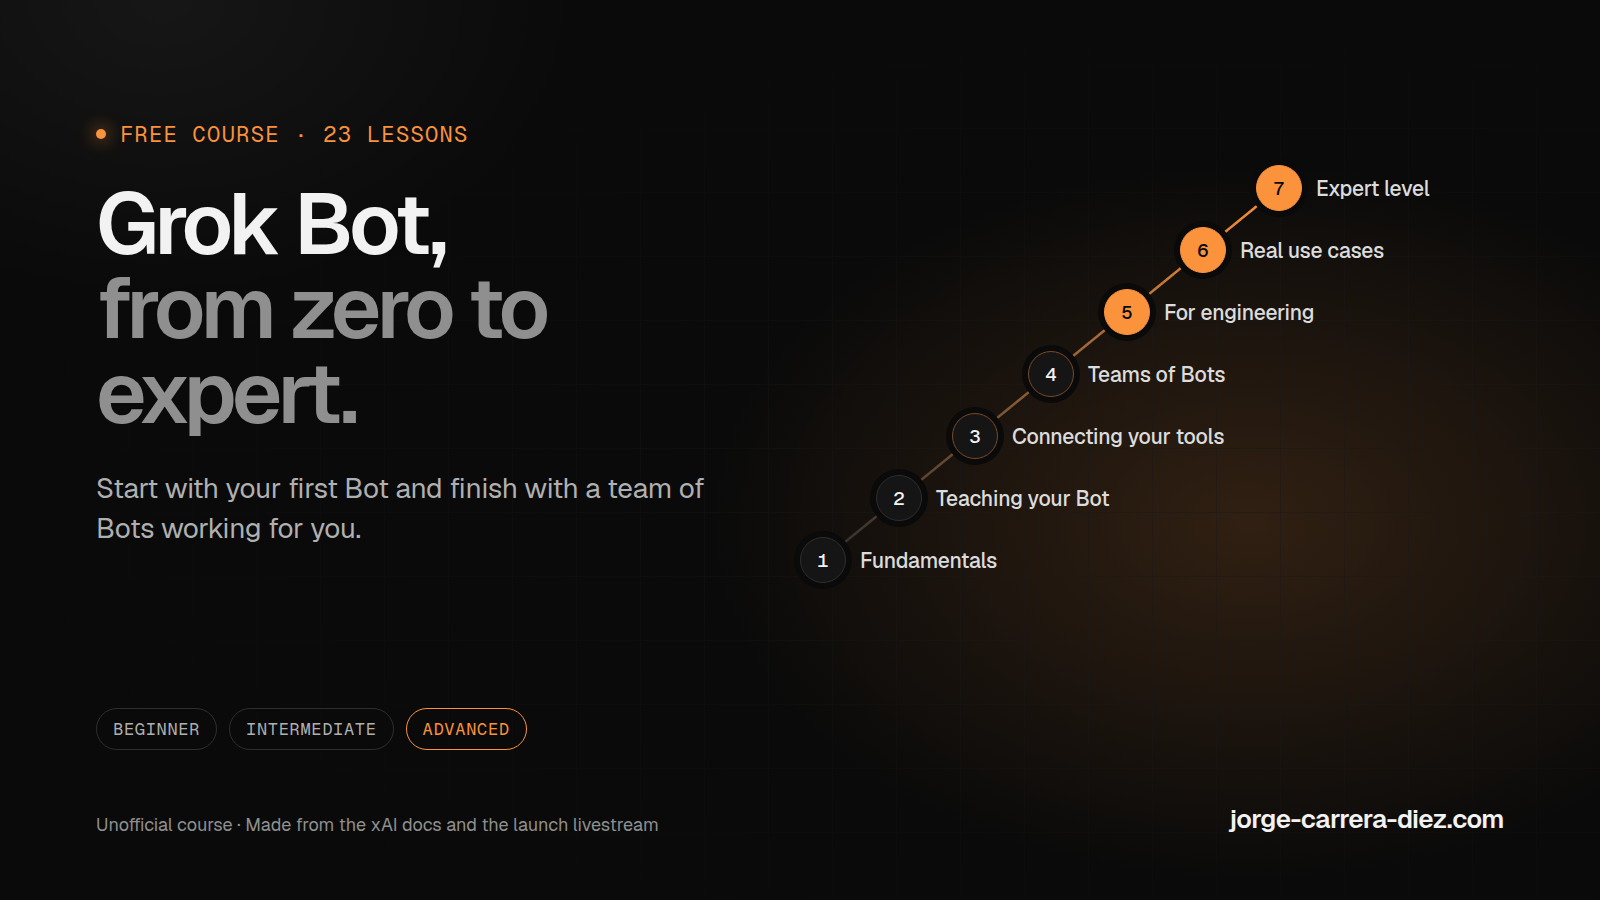
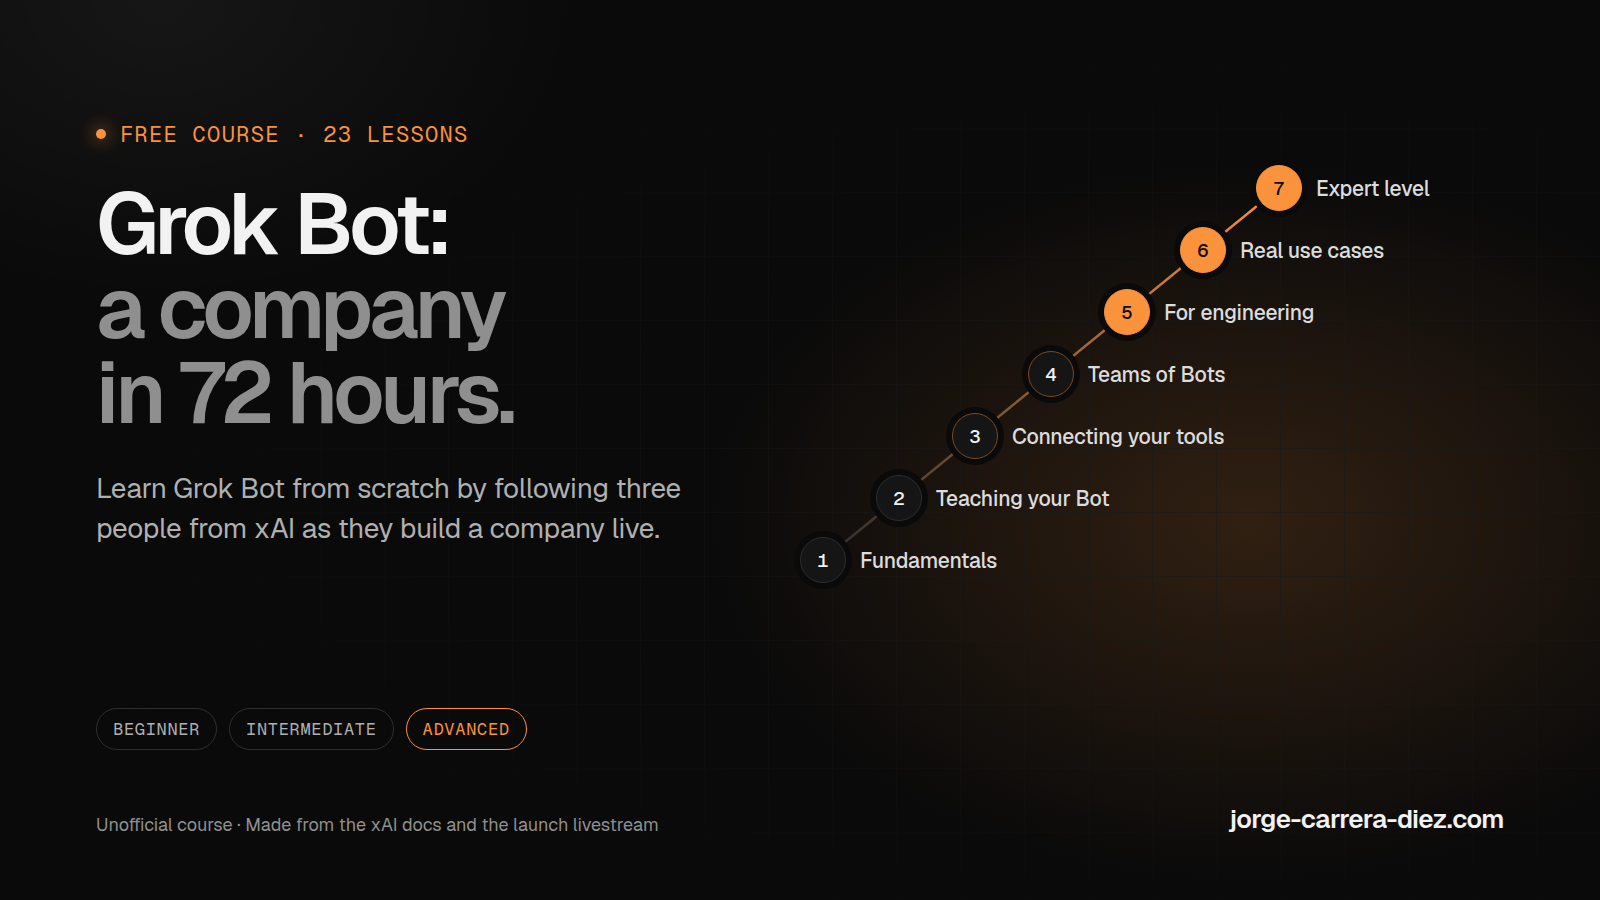
feat(cursos): el curso pasa a llamarse Grok Bot: una empresa en 72 horas
Título que cuenta la historia, subtítulo con el para quién y el de qué va,
título SEO con «Curso de Grok Bot» y portada nueva.

Changed region(s): [[0.0625, 0.3111, 0.3438, 0.4978], [0.0625, 0.5289, 0.4375, 0.6222], [0.25, 0.2178, 0.2812, 0.2489]]

diff --git a/src/content/courses/grok-bot/meta.ts b/src/content/courses/grok-bot/meta.ts
@@ -100,7 +100,9 @@ export const grokBotCourse = {
   ] as CourseLessonRef[],
   copy: {
     es: {
-      title: "Grok Bot, de cero a experto",
+      title: "Grok Bot: una empresa en 72 horas",
+      seoTitle: "Curso de Grok Bot: una empresa en 72 horas",
+      subtitle: "Aprende a usar Grok Bot desde cero siguiendo cómo tres personas de xAI montan una empresa en directo.",
       description:
         "Curso gratis para aprender a usar Grok Bot desde cero. Lecciones cortas en español, con ejemplos reales y prompts que puedes copiar.",
       intro:
@@ -183,7 +185,9 @@ export const grokBotCourse = {
       openSyllabus: "Ver el temario",
     },
     en: {
-      title: "Grok Bot, from zero to expert",
+      title: "Grok Bot: a company in 72 hours",
+      seoTitle: "Grok Bot course: a company in 72 hours",
+      subtitle: "Learn Grok Bot from scratch by following three people from xAI as they build a company live.",
       description:
         "A free course to learn Grok Bot from scratch. Short lessons with real examples and prompts you can copy.",
       intro:

diff --git a/src/app/globals.css b/src/app/globals.css
@@ -3704,8 +3704,9 @@ a {
 }
 
 .course-intro {
-  margin-top: 1.25rem;
-  font-size: 1.1875rem;
+  margin-top: 1rem;
+  max-width: 40rem;
+  font-size: 1.0625rem;
   line-height: 1.55;
   color: var(--muted);
 }
@@ -4929,4 +4930,19 @@ a {
   .syllabus:not(.syllabus--compact) .syllabus-module--intro {
     grid-column: 1 / -1;
   }
+}
+
+.course-subtitle {
+  margin-top: 1rem;
+  max-width: 40rem;
+  font-size: 1.25rem;
+  line-height: 1.5;
+  color: var(--foreground);
+  letter-spacing: -0.01em;
+}
+
+.course-title,
+.lesson-title,
+.course-subtitle {
+  text-wrap: balance;
 }

diff --git a/src/views/CourseView.tsx b/src/views/CourseView.tsx
@@ -65,6 +65,7 @@ export function CourseView({ locale }: { locale: Locale }) {
         <header className="course-hero">
           <p className="t-eyebrow">{copy.eyebrow}</p>
           <h1 className="course-title">{copy.title}</h1>
+          <p className="course-subtitle">{copy.subtitle}</p>
           <p className="course-intro">{copy.intro}</p>
           <ul className="course-meta">
             <li>

diff --git a/src/app/(en)/en/courses/grok-bot/page.tsx b/src/app/(en)/en/courses/grok-bot/page.tsx
@@ -10,7 +10,7 @@ const copy = grokBotCourse.copy[locale];
 export const metadata: Metadata = createPageMetadata({
   locale,
   paths: allPathsFor("grokBotCourse"),
-  title: copy.title,
+  title: copy.seoTitle,
   description: copy.description,
   image: grokBotCourse.cover[locale],
   type: "website",

diff --git a/src/app/(es)/cursos/grok-bot/page.tsx b/src/app/(es)/cursos/grok-bot/page.tsx
@@ -10,7 +10,7 @@ const copy = grokBotCourse.copy[locale];
 export const metadata: Metadata = createPageMetadata({
   locale,
   paths: allPathsFor("grokBotCourse"),
-  title: copy.title,
+  title: copy.seoTitle,
   description: copy.description,
   image: grokBotCourse.cover[locale],
   type: "website",
